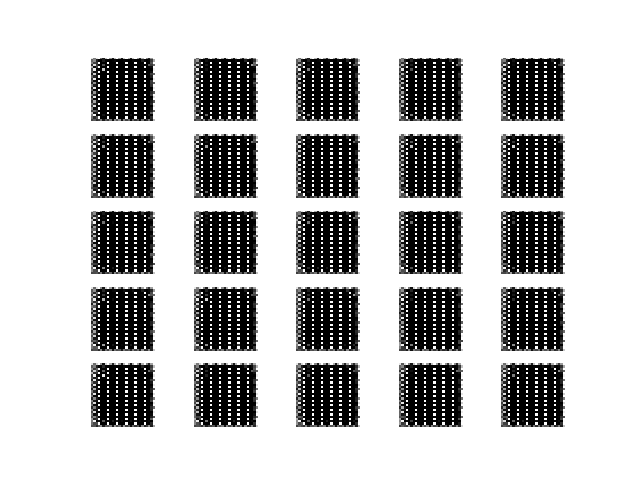
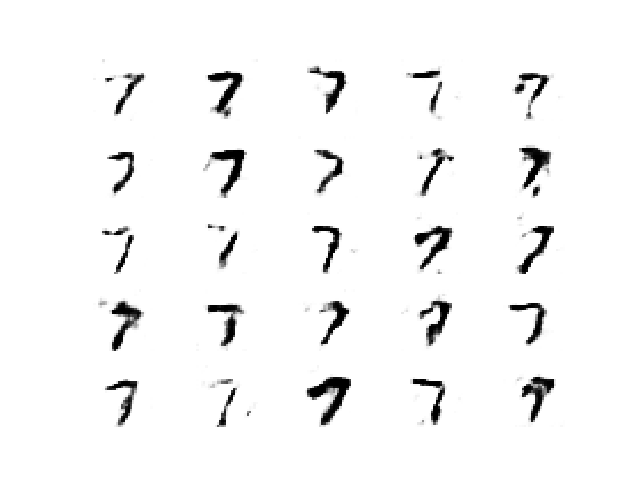
CHange from tf 2.0 to keras as the model generation now works?

diff --git a/chapter16_wgan/train.py b/chapter16_wgan/train.py
@@ -1,14 +1,23 @@
 import numpy as np
 from model import define_critic, define_generator, define_gan
 from data import generate_real_samples, generate_fake_samples, generate_latent_points, summarize_performance, plot_history, load_real_samples
+import argparse
+
+ap = argparse.ArgumentParser()
+ap.add_argument("-e", "--epochs", default=10, type=int, help="Number of epochs to train for.")
+ap.add_argument("-l", "--latent_dim", default=50, type=int, help="Latent dim for generator")
+ap.add_argument("-b", "--batch_size", default=64, type=int, help="Sets the batch size.")
+ap.add_argument("-c", "--critic", default=5, type=int, help="Number of cycles to train critic for. Default to 5 as set in paper.")
+
+args = vars(ap.parse_args())
 
 def train(g_model, c_model, gan_model, dataset, latent_dim, epochs=10, batch=64, n_critic=5):
 
 	batch_per_epoch = int(dataset.shape[0]/batch)
-	print("BATCH PER EPOCH: {:d}".format(batch_per_epoch))
+	print("[INFO] BATCH PER EPOCH: {:d}".format(batch_per_epoch))
 
 	steps = batch_per_epoch * epochs
-	print("TOTAL STEPS: {:d}".format(steps))
+	print("[INFO] TOTAL STEPS: {:d}".format(steps))
 
 	half_batch = int(batch/2)
 
@@ -43,7 +52,11 @@ def train(g_model, c_model, gan_model, dataset, latent_dim, epochs=10, batch=64,
 	plot_history(c1_hist, c2_hist, g_hist)
 
 if __name__ == "__main__":
-	latent_dim = 50
+	print(args)
+	latent_dim = args["latent_dim"]
+	batch_size = args["batch_size"]
+	n_critic = args["critic"]
+	epochs = args["epochs"]
 
 	critic = define_critic()
 
@@ -54,4 +67,4 @@ if __name__ == "__main__":
 	dataset = load_real_samples()
 	print(dataset.shape)
 
-	train(generator, critic, gan_model, dataset, latent_dim)
+	train(generator, critic, gan_model, dataset, latent_dim, epochs=epochs, batch=batch_size, n_critic=n_critic)

diff --git a/chapter16_wgan/model.py b/chapter16_wgan/model.py
@@ -1,15 +1,15 @@
-from tensorflow.keras.constraints import Constraint
-from tensorflow.keras import backend
-from tensorflow.keras.models import Sequential
-from tensorflow.keras.layers import Dense
-from tensorflow.keras.layers import Reshape
-from tensorflow.keras.layers import Flatten
-from tensorflow.keras.layers import Conv2D
-from tensorflow.keras.layers import Conv2DTranspose
-from tensorflow.keras.layers import LeakyReLU
-from tensorflow.keras.layers import BatchNormalization
-from tensorflow.keras.initializers import RandomNormal
-from tensorflow.keras.optimizers import RMSprop
+from keras import backend
+from keras.optimizers import RMSprop
+from keras.models import Sequential
+from keras.layers import Dense
+from keras.layers import Reshape
+from keras.layers import Flatten
+from keras.layers import Conv2D
+from keras.layers import Conv2DTranspose
+from keras.layers import LeakyReLU
+from keras.layers import BatchNormalization
+from keras.initializers import RandomNormal
+from keras.constraints import Constraint
 
 # Clip model weights to given hypercube
 class ClipConstraint(Constraint):
@@ -84,4 +84,3 @@ def define_gan(generator, critic):
 	opt = RMSprop(lr=0.00005)
 	model.compile(loss=wasserstein_loss, optimizer=opt)
 	return model
-

diff --git a/chapter16_wgan/data.py b/chapter16_wgan/data.py
@@ -1,11 +1,12 @@
-from tensorflow.keras.datasets import mnist
+# from tensorflow.keras.datasets import mnist
+from keras.datasets import mnist
 import numpy as np
 import matplotlib.pyplot as plt
 
 def load_real_samples():
 	(trainX, trainY), (_, _) = mnist.load_data()
 
-	selected_idx = trainY==7
+	selected_idx = trainY == 7
 
 	X = trainX[selected_idx]
 	X = np.expand_dims(X, axis=-1)
@@ -35,19 +36,19 @@ def generate_fake_samples(generator, latent_dim, samples):
 	return X, y
 
 def summarize_performance(step, g_model, latent_dim, samples=100):
-
 	X, _ = generate_fake_samples(g_model, latent_dim, samples)
 
 	# scale from [-1, 1] to [0,1]
 	X = (X+1)/2.0
 
 	for i in range(10*10):
-		plt.subplot(10, 10, i+1)
+		plt.subplot(10, 10, 1+i)
 		plt.axis("off")
 		plt.imshow(X[i,:,:,0], cmap="gray_r")
 
 	fname = "artifacts/generated_plot_{:04d}.png".format(step+1)
 	plt.savefig(fname)
+	plt.close()
 	mname = "models/model_{:04d}.h5".format(step+1)
 	g_model.save(mname)
 	print("Saved: {}, {}".format(fname, mname))

diff --git a/chapter16_wgan/generate.py b/chapter16_wgan/generate.py
@@ -1,8 +1,8 @@
-from tensorflow.keras.models import load_model
+from keras.models import load_model
 from data import generate_latent_points
 from data import plot_generated
 
-model = load_model("models/model_0970.h5")
-latent_points = generate_latent_points(50, 25)
+model = load_model("models/model_1940.h5")
+latent_points = generate_latent_points(100, 25)
 X = model.predict(latent_points)
 plot_generated(X, 5)
